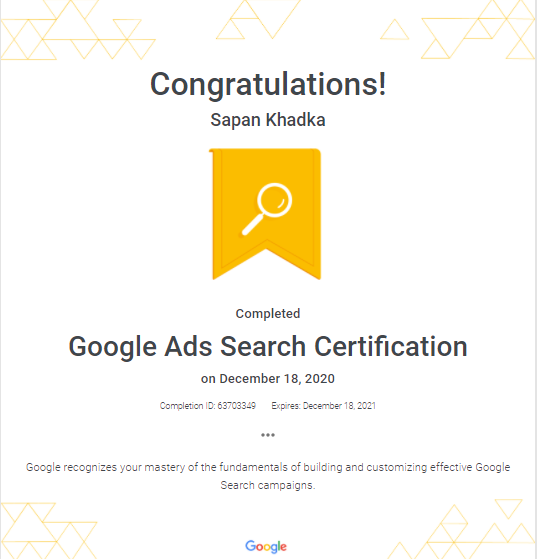
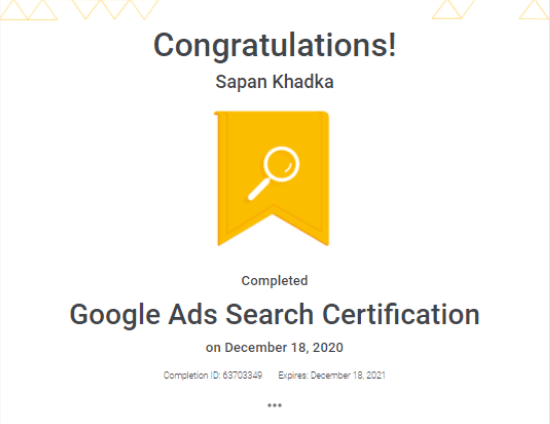
changed correct sized photo

diff --git a/index.html b/index.html
@@ -182,7 +182,7 @@
             <img src="assets/img/EOE.PNG" alt="" />
           </a>
           <a target="-blank" href="https://skillshop.exceedlms.com/student/award/63703349" class="work__img">
-            <img src="assets/img/GA.PNG" alt="" />
+            <img src="assets/img/GA.png" alt="" />
           </a>
           <div class="work__img">
             <img src="assets/img/work3.jpg" alt="" />
